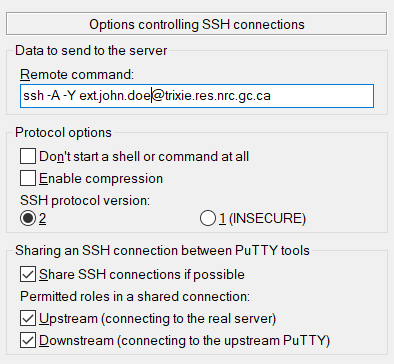
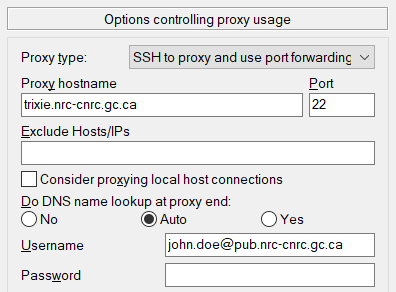
Docs: Changed advanced bastion host to use proxy jump

Changed region(s): [[0.0, 0.0, 1.0, 0.9863]]

diff --git a/docs/External-Access-Advanced-Configuration.md b/docs/External-Access-Advanced-Configuration.md
@@ -44,27 +44,29 @@ Please note that you will be prompted as follows
 To configure SSH to automatically connect to the Trixie server, please set the following settings
 in your Putty application, substituting your username where applicable.
 
-1. Under **Connection -> SSH**
-      1. Set **Remote command**: ``ssh –A –Y ext.<firstname>.<lastname>@trixie.res.nrc.gc.ca``
-      1. Select the option **Share SSH connections if possible** – this will enable you to
-         establish multiple connections to Trixie<br>
+1. Under **Connection -> Proxy**
+      1. From the **Proxy type** dropdown, select: *SSH to proxy and use port forwarding*
+      1. Set **Proxy hostname**: *trixie.nrc-cnrc.gc.ca*
+      1. Set **Port**: *22*
+      1. Set **Username**: *<firstname.lastname\>@pub.nrc-cnrc.gc.ca*
+      1. Leave **Password** blank - do not fill it in<br>
       ![trixie putty](images/trixie-putty-1.png)<br>
 1. Under **Connection -> SSH -> X11**
       1. Select the option **Enable X11 forwarding**<br>
       ![putty](images/trixie-putty-2.png)<br>
 1. Under **Session**
-      1. Set **Host Name (or IP address)**: *<firstname.lastname\>@pub.nrc-cnrc.gc.ca@trixie.nrc-cnrc.gc.ca*
+      1. Set **Host Name (or IP address)**: *ext.<firstname.lastname\>@trixie.res.nrc.gc.ca*
       1. Set **Port**: *22*
       1. Add a name for **Saved Sessions** – perhaps *Trixie*<br>
-      ![putty](images/trixie-putty-3.png)<br>
+      ![putty](images/trixie-putty-7.png)<br>
 1. Click **Save**
 
 Once the settings have been saved, you can double click on the name in the list of
 **Saved Sessions** to open a session to the Trixie server. Please note that you will be prompted as
 follows
 
-1. *LoginTC* prompt – enter 1
 1. Prompt for your **PUB** password
+1. *LoginTC* prompt – enter 1
 1. Prompt for your **RES** ext password
 
 # Related Topics

diff --git a/docs/Internal-Access-Advanced-Configuration.md b/docs/Internal-Access-Advanced-Configuration.md
@@ -44,27 +44,29 @@ Please note that you will be prompted as follows
 To configure SSH to automatically connect to the Trixie server, please set the following settings
 in your Putty application, substituting your username where applicable.
 
-1. Under **Connection -> SSH**
-      1. Set **Remote command**: ``ssh –A –Y <username>@trixie.res.nrc.gc.ca``
-      1. Select the option **Share SSH connections if possible** – this will enable you to
-         establish multiple connections to Trixie<br>
+1. Under **Connection -> Proxy**
+      1. From the **Proxy type** dropdown, select: *SSH to proxy and use port forwarding*
+      1. Set **Proxy hostname**: *trixie.nrc-cnrc.gc.ca*
+      1. Set **Port**: *22*
+      1. Set **Username**: *<username\>@pub.nrc-cnrc.gc.ca*
+      1. Leave **Password** blank - do not fill it in<br>
       ![trixie putty](images/trixie-putty-5.png)<br>
 1. Under **Connection -> SSH -> X11**
       1. Select the option **Enable X11 forwarding**<br>
       ![putty](images/trixie-putty-2.png)<br>
 1. Under **Session**
-      1. Set **Host Name (or IP address)**: *<username\>@pub.nrc-cnrc.gc.ca@trixie.nrc-cnrc.gc.ca*
+      1. Set **Host Name (or IP address)**: *<username\>@trixie.res.nrc.gc.ca*
       1. Set **Port**: *22*
       1. Add a name for **Saved Sessions** – perhaps *Trixie*<br>
-      ![putty](images/trixie-putty-6.png)<br>
+      ![putty](images/trixie-putty-4.png)<br>
 1. Click **Save**
 
 Once the settings have been saved, you can double click on the name in the list of
 **Saved Sessions** to open a session to the Trixie server. Please note that you will be prompted as
 follows
 
-1. *LoginTC* prompt – enter 1
 1. Prompt for your **PUB** password
+1. *LoginTC* prompt – enter 1
 1. Prompt for your **SRN** password
 
 # Related Topics

diff --git a/docs/Internal-Access-Setup.md b/docs/Internal-Access-Setup.md
@@ -12,7 +12,7 @@ need to install Putty if it is not installed already. You can install Putty from
 
 Trixie can only be accessed from one of two ways
 
-1. The **SRN** network
+1. The Secure Research Network (**SRN**)
 1. The **Legacy** network using the bastion host
 
 The following sections will detail the procedures for logging into Trixie from these networks.
